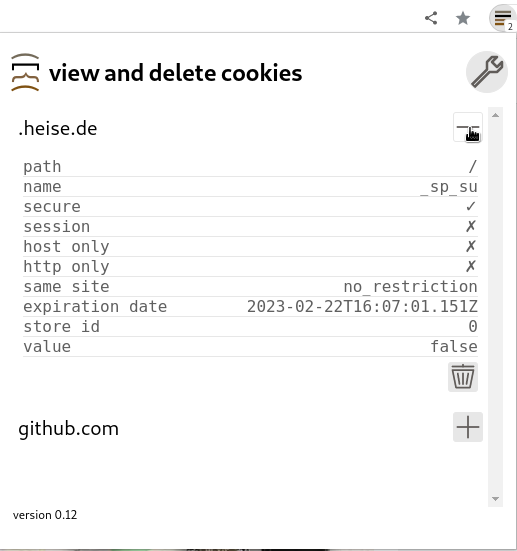
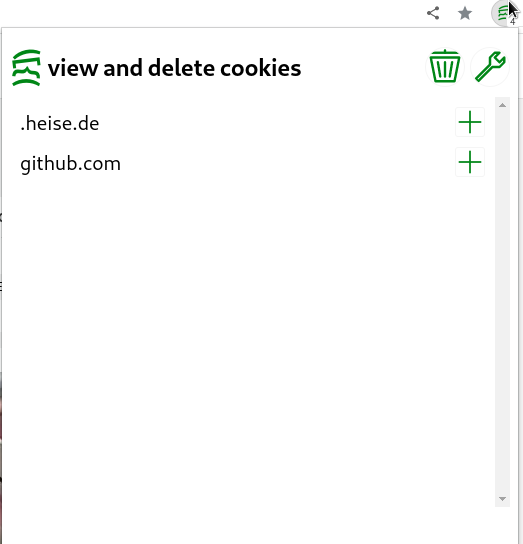
some css & new screenshots

diff --git a/assets/style.css b/assets/style.css
@@ -27,24 +27,24 @@ input[type=file] {
 }
 
 #cookie-stack-3 {
-    color: #746B5A;
+    color: #008616;
     display: inline-block;
     transform: rotate(-12deg);
 }
 
 #cookie-stack-2 {
-    color: #000;
+    color: #008616;
     display: inline-block;
     transform: rotate(-7deg);
 }
 
 #cookie-stack-1 {
-    color: #81613E;
+    color: #008616;
     display: inline-block;
     transform: rotate(5deg);
 }
 #cookie-stack-0 {
-    color: #7F5112;;
+    color: #008616;;
     display: inline-block;
 }
 
@@ -53,11 +53,11 @@ input[type=file] {
 }
 
 .border {
-    border: 1px solid #e7e7e7;
+    border: 1px solid #f5f5f5;
 }
 
 .border-bottom {
-    border-bottom: 1px solid #e7e7e7;
+    border-bottom: 1px solid #f5f5f5;
 }
 
 .rounded {
@@ -144,12 +144,12 @@ input[type=file] {
 }
 
 .interactive {
-    background-color: #e7e7e7;
+    background-color: #fff;
 
 }
 
 .interactive:hover {
-    background-color: #FFF;
+    background-color: #f5f5f5;
 }
 
 .clickable {
